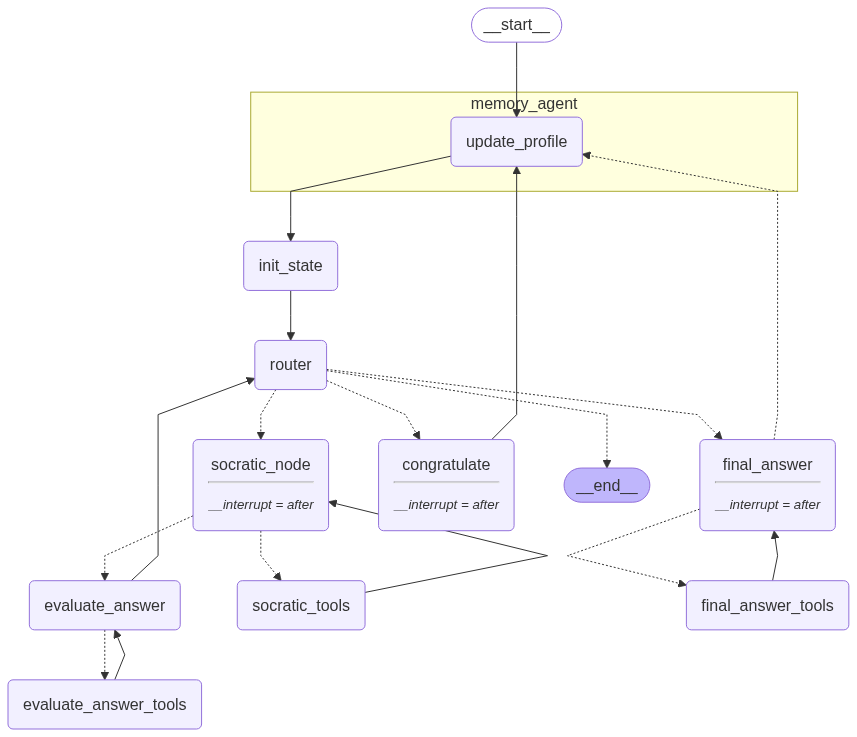
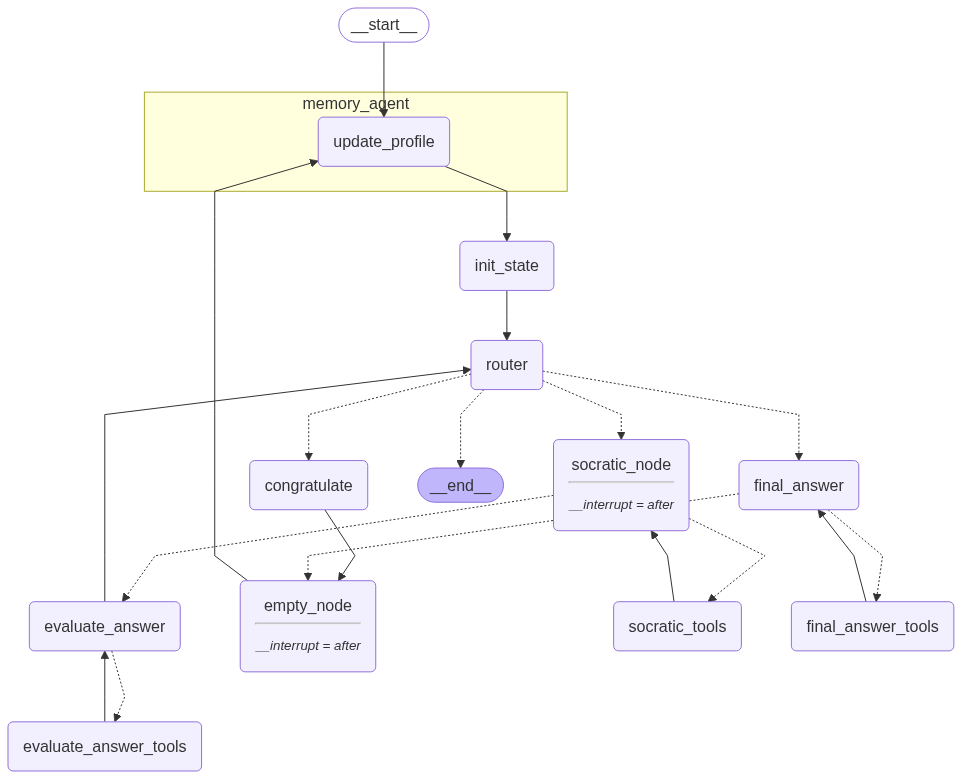
functional version

diff --git a/tutor_agent/tutor_agent.py b/tutor_agent/tutor_agent.py
@@ -16,11 +16,13 @@ from socratic_agent.socratic_agent import SocraticAgent
 from memory_agent.memory_agent import MemoryAgent
 from socratic_agent.tools import RAGRetrieveChunks
 import tutor_agent.tutot_agent_prompts as prompts
+from langgraph.prebuilt import tools_condition
+
 
 class TutorState(MessagesState):
     # For the socratic agent
     attempts: int = 0
-    max_attempts: int = 5
+    max_attempts: int = 3
     query: str = ""
     next: str = ""
     is_solved: bool = False
@@ -61,7 +63,7 @@ class TutorAgent:
         self,
         state: TutorState
     ):
-        return {"is_solved": False, "attempts": 0, "max_attempts": 4, "query": state["messages"][-1]}
+        return {"is_solved": False, "attempts": 0, "max_attempts": 3, "query": state["messages"][-1]}
 
     def router(
         self,
@@ -71,11 +73,14 @@ class TutorAgent:
         attempts = state["attempts"]
         max_attempts = state["max_attempts"]
 
-        if not is_solved and attempts <= max_attempts:
+        if not is_solved and attempts < max_attempts:
+            print(f"Router: a socratic {state['attempts']}")
             return {"next": "socratic_node", "attempts": state["attempts"] + 1}
-        elif not is_solved and attempts > max_attempts:
+        elif not is_solved and attempts >= max_attempts:
+            print(f"Router: a final_anwer {state['attempts']}")
             return {"next": "final_answer", "attempts": state["attempts"] + 1}
         else:
+            print(f"Router: a congratulate {state["attempts"]}")
             return {"next": "congratulate", "attempts": state["attempts"] + 1}
 
     async def socratic_node(
@@ -119,8 +124,6 @@ class TutorAgent:
 
         response = await self.llm_with_tools.ainvoke([system_message])
 
-        print(f"evaluate_answer {response.content}")
-
         if response.content.lower() == "yes":
             return {"is_solved": True}
         else:
@@ -137,14 +140,18 @@ class TutorAgent:
 
         query = state["query"]
         attempts = state["attempts"]
-        socratic_interaction = state["messages"][-(attempts * 2):]
+        socratic_interaction = state["messages"]
+
+        print("hola")
 
         # Format the socratic interaction
-        socratic_interaction_txt = "\n".join(f"{msg.type}: {msg.content}" for msg in socratic_interaction)
+        socratic_interaction_txt = "\n".join(f"{msg.type}: {msg.content}" for msg in socratic_interaction if msg.type != "tool_call")
 
         system_message = SystemMessage(self.SYSTEM_PROMPT_FINAL_ANSWER.format(profile = profile_txt, initial_question = query, history = socratic_interaction_txt))
 
         response = await self.llm_with_tools.ainvoke([system_message])
+
+        print(response)
 
         return {"messages": [response], "attempts": 0, "next": "", "is_solved": False}
     
@@ -178,7 +185,9 @@ class TutorAgent:
         next = state["next"]
 
         return next
-
+    
+    def empty_node(self, state: TutorState):
+        return None
 
     def socratic_tools_condition(
         self,
@@ -205,7 +214,7 @@ class TutorAgent:
         self,
         state: Union[list[AnyMessage], dict[str, Any], BaseModel],
         messages_key: str = "messages",
-    ) -> Literal["final_answer_tools", "memory_agent"]:
+    ) -> Literal["final_answer_tools", "empty_node"]:
         """Use in the conditional_edge to route to the ToolNode if the last message
 
         has tool calls. Otherwise, route to the empty node.
@@ -220,7 +229,7 @@ class TutorAgent:
             raise ValueError(f"No messages found in input state to tool_edge: {state}")
         if hasattr(ai_message, "tool_calls") and len(ai_message.tool_calls) > 0:
             return "final_answer_tools"
-        return "memory_agent"
+        return "empty_node"
     
     def evaluate_answer_tools_condition(
         self,
@@ -255,6 +264,7 @@ class TutorAgent:
         builder.add_node("evaluate_answer", self.evaluate_answer)
         builder.add_node("final_answer", self.final_answer)
         builder.add_node("congratulate", self.congratulate)
+        builder.add_node("empty_node", self.empty_node)
         builder.add_node("socratic_tools", ToolNode(self.tools))
         builder.add_node("final_answer_tools", ToolNode(self.tools))
         builder.add_node("evaluate_answer_tools", ToolNode(self.tools))
@@ -288,14 +298,15 @@ class TutorAgent:
             "final_answer",
             self.final_answer_tools_condition
         )
-
         builder.add_edge("final_answer_tools", "final_answer")
-        builder.add_edge("congratulate", "memory_agent")
+        
+        builder.add_edge("congratulate", "empty_node")
+        builder.add_edge("empty_node", "memory_agent")
 
         return builder.compile(
             checkpointer = self.checkpointer,
             store = self.across_thread_memory,
-            interrupt_after = ["socratic_node", "congratulate", "final_answer"]
+            interrupt_after = ["socratic_node", "empty_node"]
         )
     
     def display_graph(self):

diff --git a/tutor_agent/tutot_agent_prompts.py b/tutor_agent/tutot_agent_prompts.py
@@ -1,6 +1,9 @@
 SYSTEM_PROMPT_SOCRATIC_QUESTIONER = """
 Eres un **agente socrático**: tu misión es guiar al usuario hacia la respuesta correcta **mediante preguntas**, sin ofrecer la solución directamente.
 
+Tienes acceso a una herramienta de recuperación llamada «rag_retrieve_chunks». Si el usuario plantea algo que pueda responderse con los documentos cargados y no tienes ya esa información en el historial de mensajes, llama a la herramienta con la pregunta del usuario (solo si es necesario).
+Cuando tengas información suficiente responde.
+
 Perfil del usuario:
 {profile}
 
@@ -24,6 +27,9 @@ Responde **solo** con esa pregunta socrática.
 SYSTEM_PROMPT_ANSWER_EVALUATOR = """
 Eres un evaluador pedagógico. Debes decidir si la respuesta del estudiante
 resuelve de forma satisfactoria la pregunta planteada, teniendo en cuenta su perfil.
+
+Tienes acceso a una herramienta de recuperación llamada «rag_retrieve_chunks». Si el usuario plantea algo que pueda responderse con los documentos cargados y no tienes ya esa información en el historial de mensajes, llama a la herramienta con la pregunta del usuario (solo si es necesario).
+Cuando tengas información suficiente responde.
 
 Perfil del estudiante (JSON)
 ----------------------------
@@ -55,6 +61,9 @@ No añadas nada más.
 SYSTEM_PROMPT_FINAL_ANSWER = """
 Eres un **tutor experto**; debes cerrar la sesión socrática porque se agotó el número máximo de intentos y el alumno aún no tiene la solución.
 
+Tienes acceso a una herramienta de recuperación llamada «rag_retrieve_chunks». Si el usuario plantea algo que pueda responderse con los documentos cargados y no tienes ya esa información en el historial de mensajes, llama a la herramienta con la pregunta del usuario (solo si es necesario).
+Cuando tengas información suficiente responde.
+
 Perfil del estudiante (JSON):
 {profile}
 
@@ -71,7 +80,7 @@ Tareas
 3. Ajusta el vocabulario y los ejemplos al perfil del estudiante.
 4. Cierra con una invitación a preguntar dudas (“¿Hay algo que quieras repasar?”).
 
-Produce una **única respuesta completa**, adecuada al nivel del alumno.
+Produce una **única respuesta completa**, adecuada al nivel del alumno, pero siendo lo más conciso posible con la información que tines (por ejemplo de la herramienta de RAG)
 """
 
 SYSTEM_PROMPT_CONGRATULATE = """

diff --git a/socratic_agent/tools.py b/socratic_agent/tools.py
@@ -54,6 +54,8 @@ class RAGRetrieveChunks(BaseTool):
             back to the LLM.
         """
         docs: List[Document] = self._vectordb.similarity_search(query, k = TOP_K)
-        return [
+
+        result = [
             {"content": d.page_content, "metadata": d.metadata} for d in docs
         ]
+        return result
